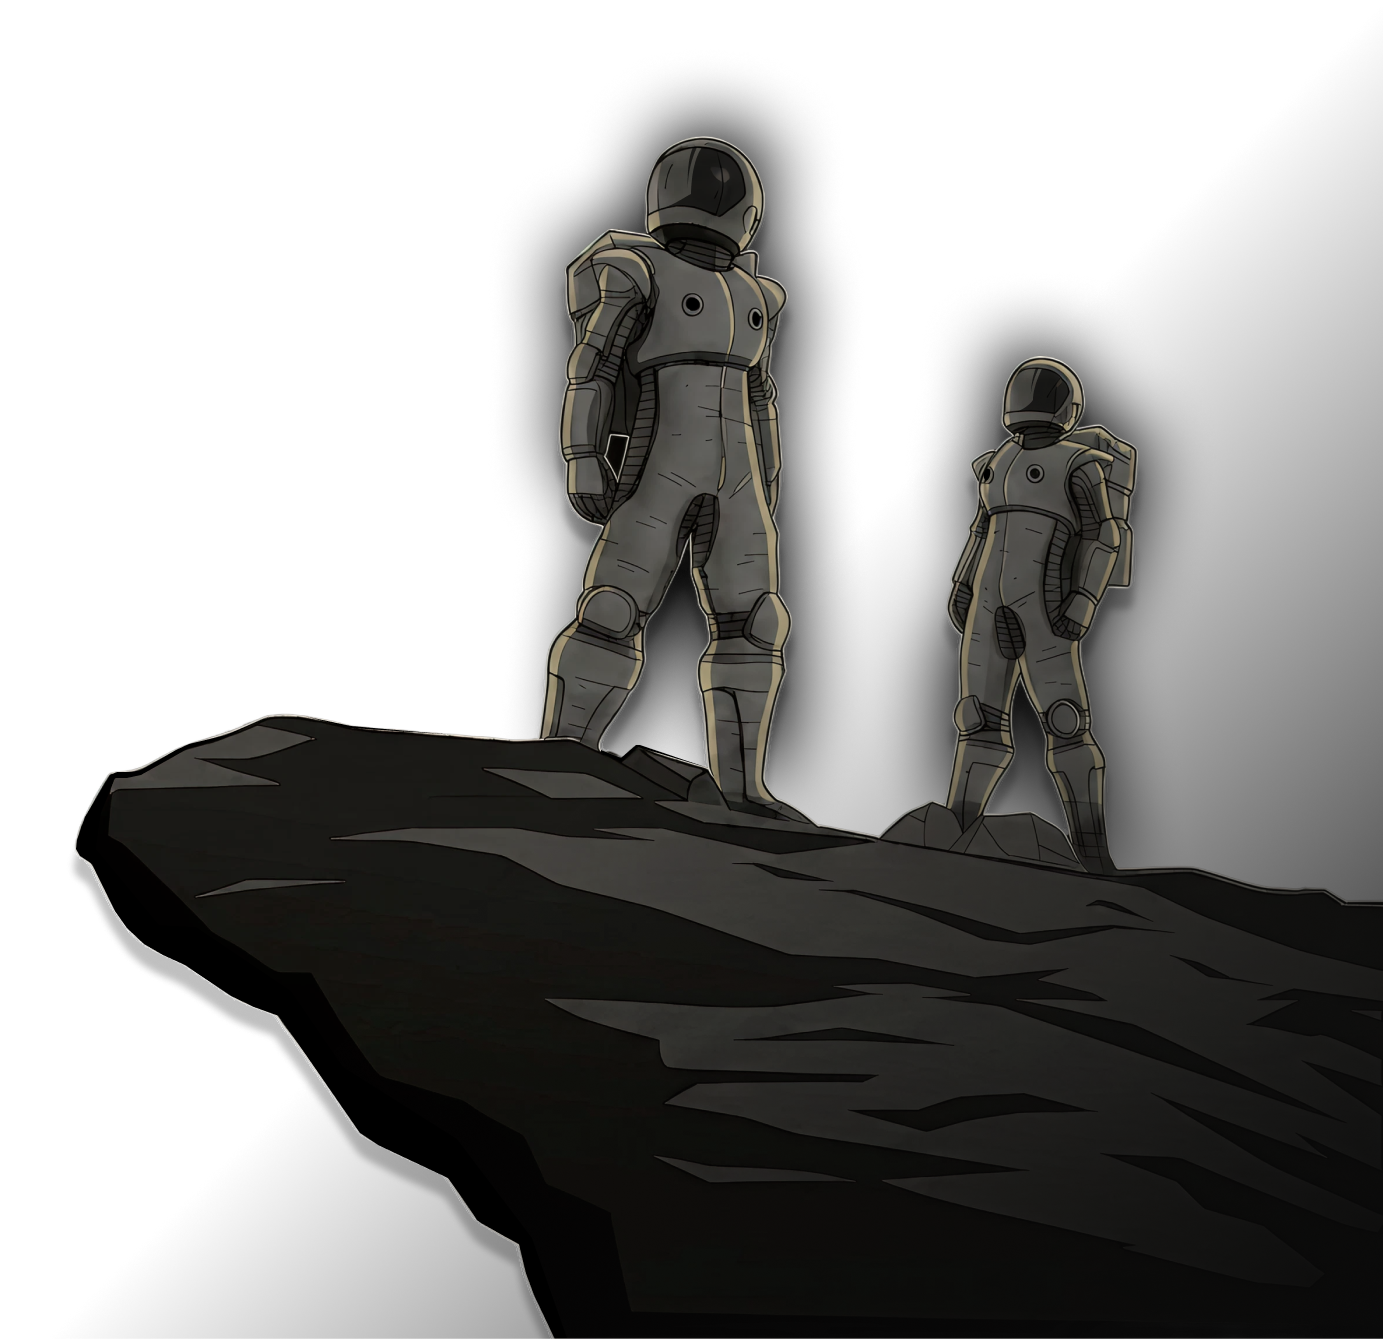
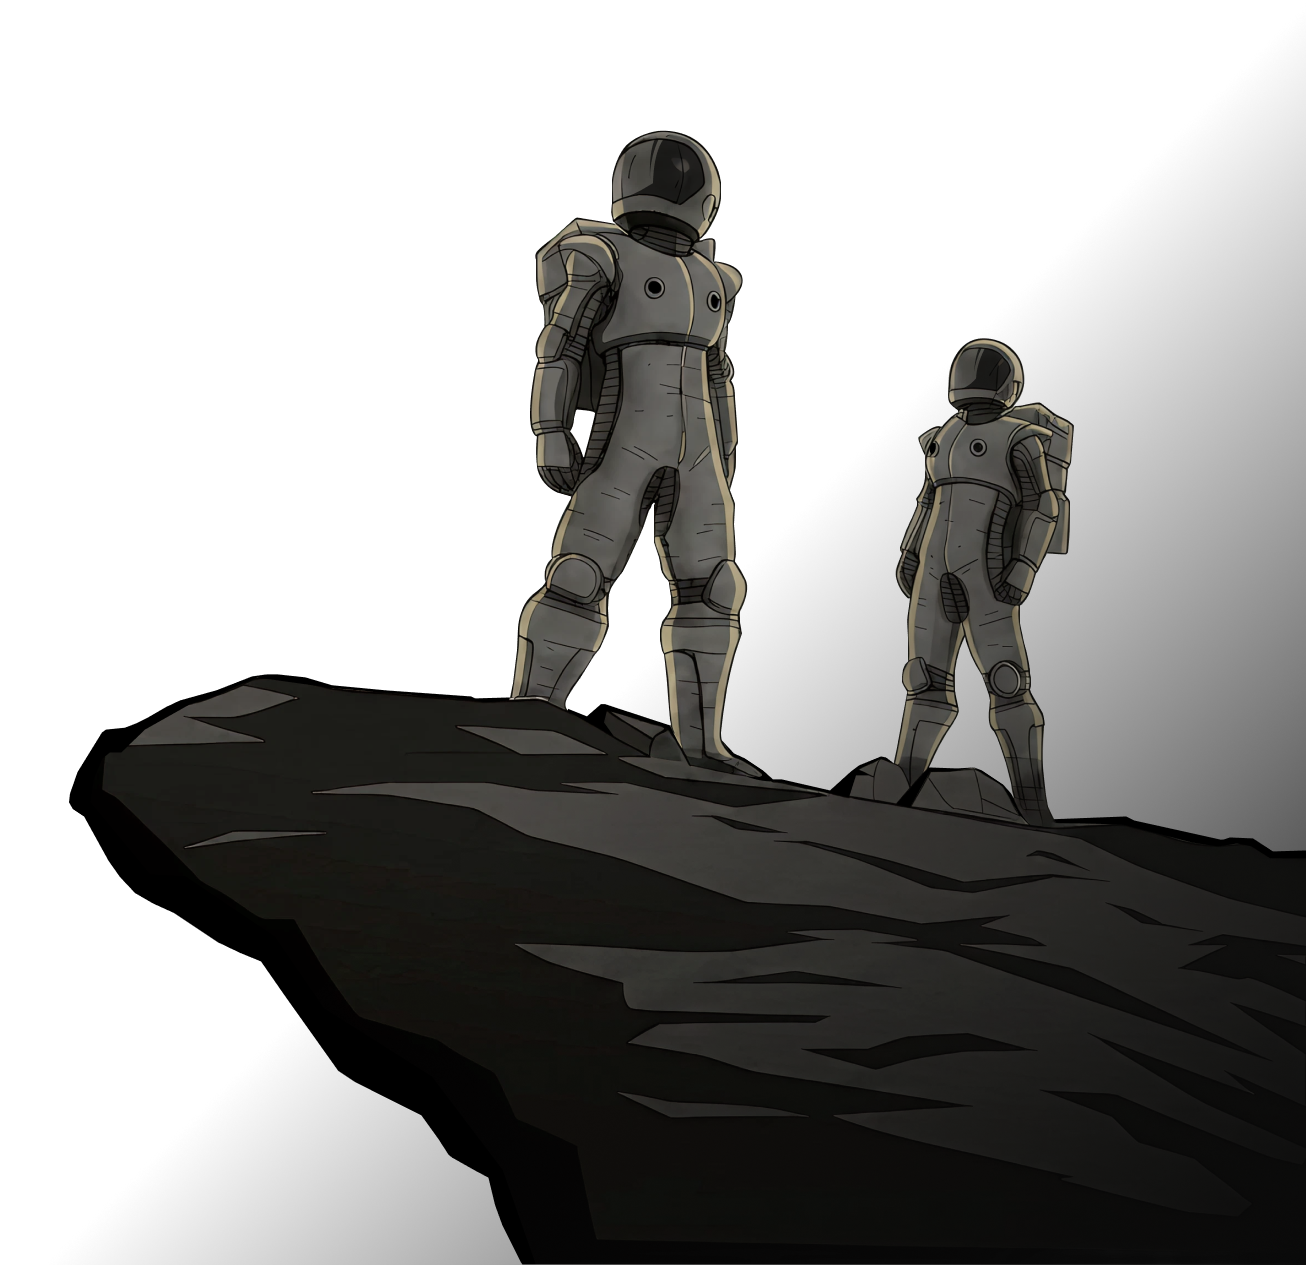
Hero polish: new astronaut art, cursor-reactive pillar & astronauts, target cursor, warp loader
- Replace hero astronaut image; bleed opaque right/bottom edges off-screen so
  cursor drift never reveals a hard boundary
- Add subtle cursor parallax (eased drift + faint 3D tilt) to the astronauts,
  with the holographic scan riding along in a shared inner wrapper
- Make the white→amber light pillar more responsive to the cursor (wider sway,
  vertical lean, snappier easing) layered over the idle rotation
- Target-cursor reticle: nav + footer CTAs get a lock-on frame while the ship
  fades, so the cursor no longer covers link text
- Smoother custom cursor: pin the ship to the pointer in mousemove and promote
  both cursor layers to their own GPU compositor layer (will-change + translate3d)
- Teleport/warp preloader: DM Mono "Teleporting…" decode, thin center-out
  streaks, longer load time

diff --git a/index.html b/index.html
@@ -116,6 +116,8 @@
     top: 0; left: 0;
     pointer-events: none;
     z-index: 10000;
+    /* own compositor layer so movement stays smooth while the hero canvases churn */
+    will-change: transform;
   }
   .cursor-ship {
     width: 30px; height: 30px;
@@ -372,11 +374,22 @@
   }
   .hero-astro {
     position: absolute;
-    right: 0;
-    bottom: 0;
+    /* bleed the opaque right/bottom edges past the viewport so cursor drift never
+       pulls that hard dark boundary into view (left/top edges are transparent = safe) */
+    right: -34px;
+    bottom: -30px;
     width: clamp(190px, 46vw, 920px);
     z-index: 3;
     pointer-events: none;
+    perspective: 1400px;
+  }
+  /* inner layer follows the cursor (set via JS); keeps the intro transform on .hero-astro clean */
+  .hero-astro-inner {
+    position: relative;
+    transform: translate3d(var(--amx, 0px), var(--amy, 0px), 0)
+               rotateX(var(--arx, 0deg)) rotateY(var(--ary, 0deg));
+    transform-origin: 60% 40%;
+    will-change: transform;
   }
   .hero-astro-img { display: block; width: 100%; height: auto; }
   /* hero intro — art layers ease in once the preloader finishes */
@@ -1713,11 +1726,14 @@
     <canvas id="heroStars" class="hero-stars" aria-hidden="true"></canvas>
     <canvas id="heroPillar" class="hero-pillar" aria-hidden="true"></canvas>
     <div class="hero-astro" aria-hidden="true">
-      <img class="hero-astro-img" src="uploads/astros.png" alt="" />
-      <!-- techy holographic scan riding over the suits (masked to the astronaut shapes) -->
-      <div class="astro-holo-wrap" aria-hidden="true">
-        <span class="astro-holo"></span>
-        <span class="astro-holo sweep"></span>
+      <!-- inner layer drifts/tilts with the cursor; holo scan rides along so it stays glued to the suits -->
+      <div class="hero-astro-inner">
+        <img class="hero-astro-img" src="uploads/astros.png" alt="" />
+        <!-- techy holographic scan riding over the suits (masked to the astronaut shapes) -->
+        <div class="astro-holo-wrap" aria-hidden="true">
+          <span class="astro-holo"></span>
+          <span class="astro-holo sweep"></span>
+        </div>
       </div>
     </div>
     <div class="hero-sat" id="heroSat" aria-hidden="true">
@@ -2365,10 +2381,12 @@
     let angle = 0; // 0deg = ship pointing up (its rest heading)
     document.addEventListener("mousemove", function (e) {
       mx = e.clientX; my = e.clientY;
-    });
+      // pin the ship to the pointer right away so it never trails a frame behind a busy main thread
+      ship.style.transform = "translate3d(" + mx + "px," + my + "px,0) translate(-50%,-50%) rotate(" + angle.toFixed(2) + "deg)";
+    }, { passive: true });
     function tick() {
-      rx += (mx - rx) * 0.16;
-      ry += (my - ry) * 0.16;
+      rx += (mx - rx) * 0.22;
+      ry += (my - ry) * 0.22;
       // heading from the smoothed lag vector — the nose points where it flies
       const hdx = mx - rx, hdy = my - ry;
       if (Math.hypot(hdx, hdy) > 1.2) {
@@ -2376,8 +2394,8 @@
         let diff = ((ta - angle + 540) % 360) - 180;
         angle += diff * 0.22;
       }
-      ship.style.transform = "translate(" + mx + "px," + my + "px) translate(-50%,-50%) rotate(" + angle.toFixed(2) + "deg)";
-      trail.style.transform = "translate(" + rx + "px," + ry + "px) translate(-50%,-50%)";
+      ship.style.transform = "translate3d(" + mx + "px," + my + "px,0) translate(-50%,-50%) rotate(" + angle.toFixed(2) + "deg)";
+      trail.style.transform = "translate3d(" + rx + "px," + ry + "px,0) translate(-50%,-50%)";
       requestAnimationFrame(tick);
     }
     tick();
@@ -2617,6 +2635,45 @@
       vis.style.setProperty("--amy", cy.toFixed(2) + "px");
       vis.style.setProperty("--arx", crx.toFixed(2) + "deg");
       vis.style.setProperty("--ary", cry.toFixed(2) + "deg");
+      if (Math.abs(tx - cx) + Math.abs(ty - cy) + Math.abs(trx - crx) + Math.abs(try_ - cry) > 0.02) {
+        requestAnimationFrame(loop);
+      } else { active = false; }
+    }
+    window.addEventListener("mousemove", onMove, { passive: true });
+  })();
+
+  // ===== Hero astronauts — subtle cursor parallax (drift + faint tilt, holo scan rides along) =====
+  (function () {
+    const inner = document.querySelector(".hero-astro-inner");
+    if (!inner) return;
+    const reduce = window.matchMedia("(prefers-reduced-motion: reduce)").matches;
+    if (reduce) return;
+    const hero = document.getElementById("top");
+    if (!hero) return;
+    let tx = 0, ty = 0, trx = 0, try_ = 0;   // targets
+    let cx = 0, cy = 0, crx = 0, cry = 0;     // current (eased)
+    let active = false;
+
+    function onMove(e) {
+      const r = hero.getBoundingClientRect();
+      if (r.bottom <= 0 || r.top >= window.innerHeight) return;  // hero off-screen
+      let nx = (e.clientX - r.left) / r.width - 0.5;   // -0.5..0.5
+      let ny = (e.clientY - r.top) / r.height - 0.5;
+      nx = nx < -0.5 ? -0.5 : nx > 0.5 ? 0.5 : nx;     // clamp so it never over-shifts
+      ny = ny < -0.5 ? -0.5 : ny > 0.5 ? 0.5 : ny;
+      tx = nx * 20;            // px drift (subtle)
+      ty = ny * 13;
+      try_ = nx * 4;           // rotateY (deg)
+      trx = -ny * 3;           // rotateX (deg)
+      if (!active) { active = true; loop(); }
+    }
+    function loop() {
+      const E = 0.05;
+      cx += (tx - cx) * E; cy += (ty - cy) * E; crx += (trx - crx) * E; cry += (try_ - cry) * E;
+      inner.style.setProperty("--amx", cx.toFixed(2) + "px");
+      inner.style.setProperty("--amy", cy.toFixed(2) + "px");
+      inner.style.setProperty("--arx", crx.toFixed(2) + "deg");
+      inner.style.setProperty("--ary", cry.toFixed(2) + "deg");
       if (Math.abs(tx - cx) + Math.abs(ty - cy) + Math.abs(trx - crx) + Math.abs(try_ - cry) > 0.02) {
         requestAnimationFrame(loop);
       } else { active = false; }
@@ -2982,14 +3039,16 @@ void main() {
   }
 
   let time = 0;
-  const MOUSE_RANGE = 0.28;   // radians of sway the cursor can add (subtle)
-  const MOUSE_EASE = 0.03;    // slow, smooth follow (higher = snappier)
+  const MOUSE_RANGE = 0.5;    // radians of horizontal sway the cursor adds (a bit more lively)
+  const MOUSE_LEAN = 0.16;    // radians of extra lean from vertical cursor position
+  const MOUSE_EASE = 0.05;    // smooth follow (higher = snappier)
   function render() {
     if (!reduce) time += 0.016 * CFG.rotationSpeed;
 
     // gentle eased cursor nudge layered on top of the slow auto-rotation
     mx += (tmx - mx) * MOUSE_EASE;
-    const angle = time * 0.3 + mx * MOUSE_RANGE;
+    my += (tmy - my) * MOUSE_EASE;
+    const angle = time * 0.3 + mx * MOUSE_RANGE + my * MOUSE_LEAN;
 
     gl.uniform1f(uTime, time);
     gl.uniform1f(uRotCos, Math.cos(angle));
